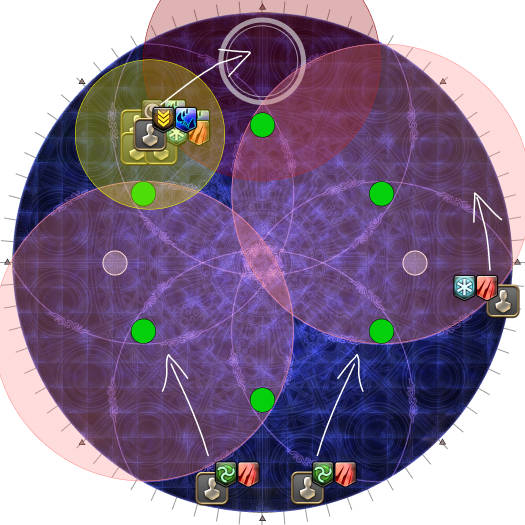
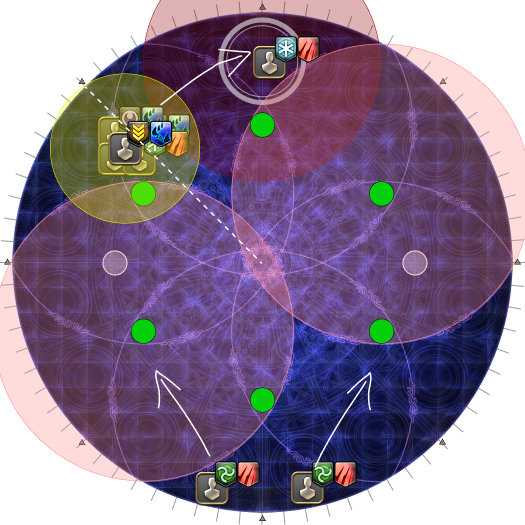
Clarify position for Unholy Darkness

diff --git a/_static/fru/04_gaia_and_shiva.md b/_static/fru/04_gaia_and_shiva.md
@@ -487,6 +487,9 @@ the sea of mechanics.
       <p><b>15.</b> The second set of hourglasses explode together with the 
       blue player with <em>Unholy Darkness</em>.</p>
       <ul>
+        <li>Do not hit the Fragment of Fate! Be at least on the intercardinal
+        line (ideally on the far side)- use the intercardinal waymark as a 
+        guide.</li>
         <li>All players in the stack move to the North sector when the stack 
         resolves.</li>
       </ul>

diff --git a/_ultimates/fru/04_gaia_and_shiva.md b/_ultimates/fru/04_gaia_and_shiva.md
@@ -456,6 +456,9 @@ the sea of mechanics.
       <p><b>16.</b> The second set of hourglasses explode together with the 
       blue player with <em>Unholy Darkness</em>.</p>
       <ul>
+        <li>Do not hit the Fragment of Fate! Be at least on the intercardinal
+        line (ideally on the far side)- use the intercardinal waymark as a 
+        guide.</li>
         <li>All players in the stack move to the North sector when the stack 
         resolves.</li>
       </ul>
